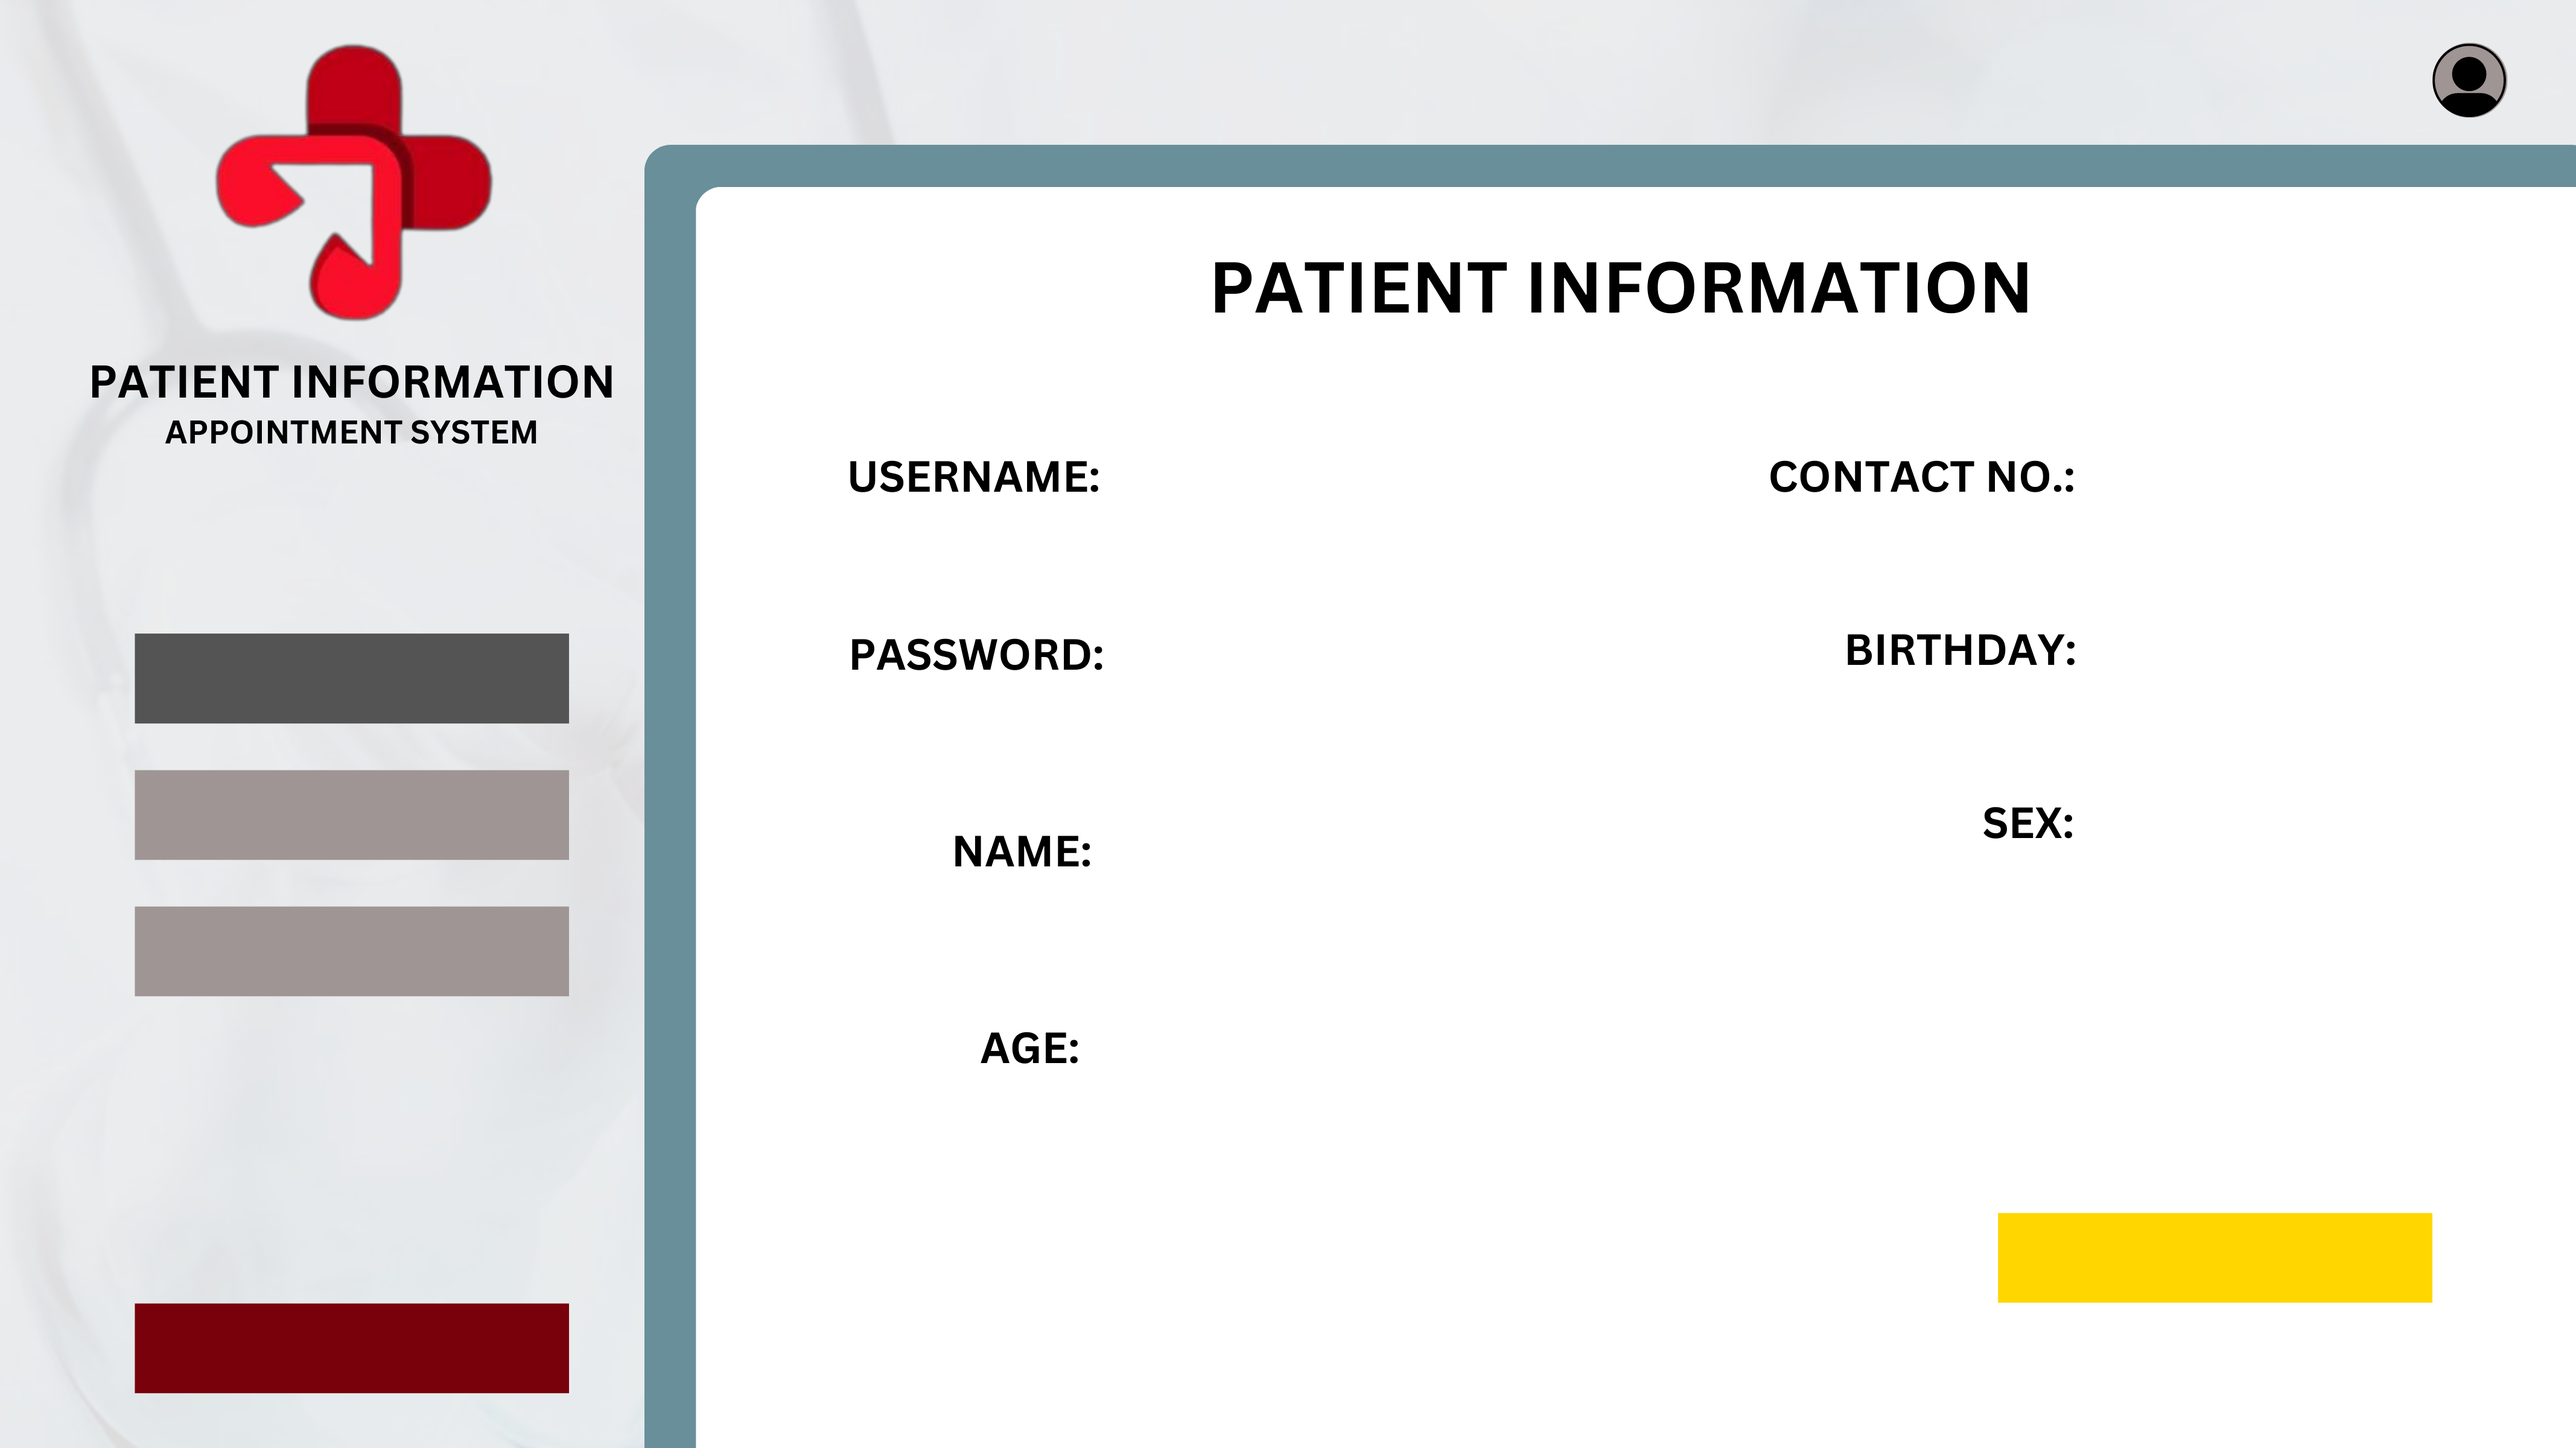
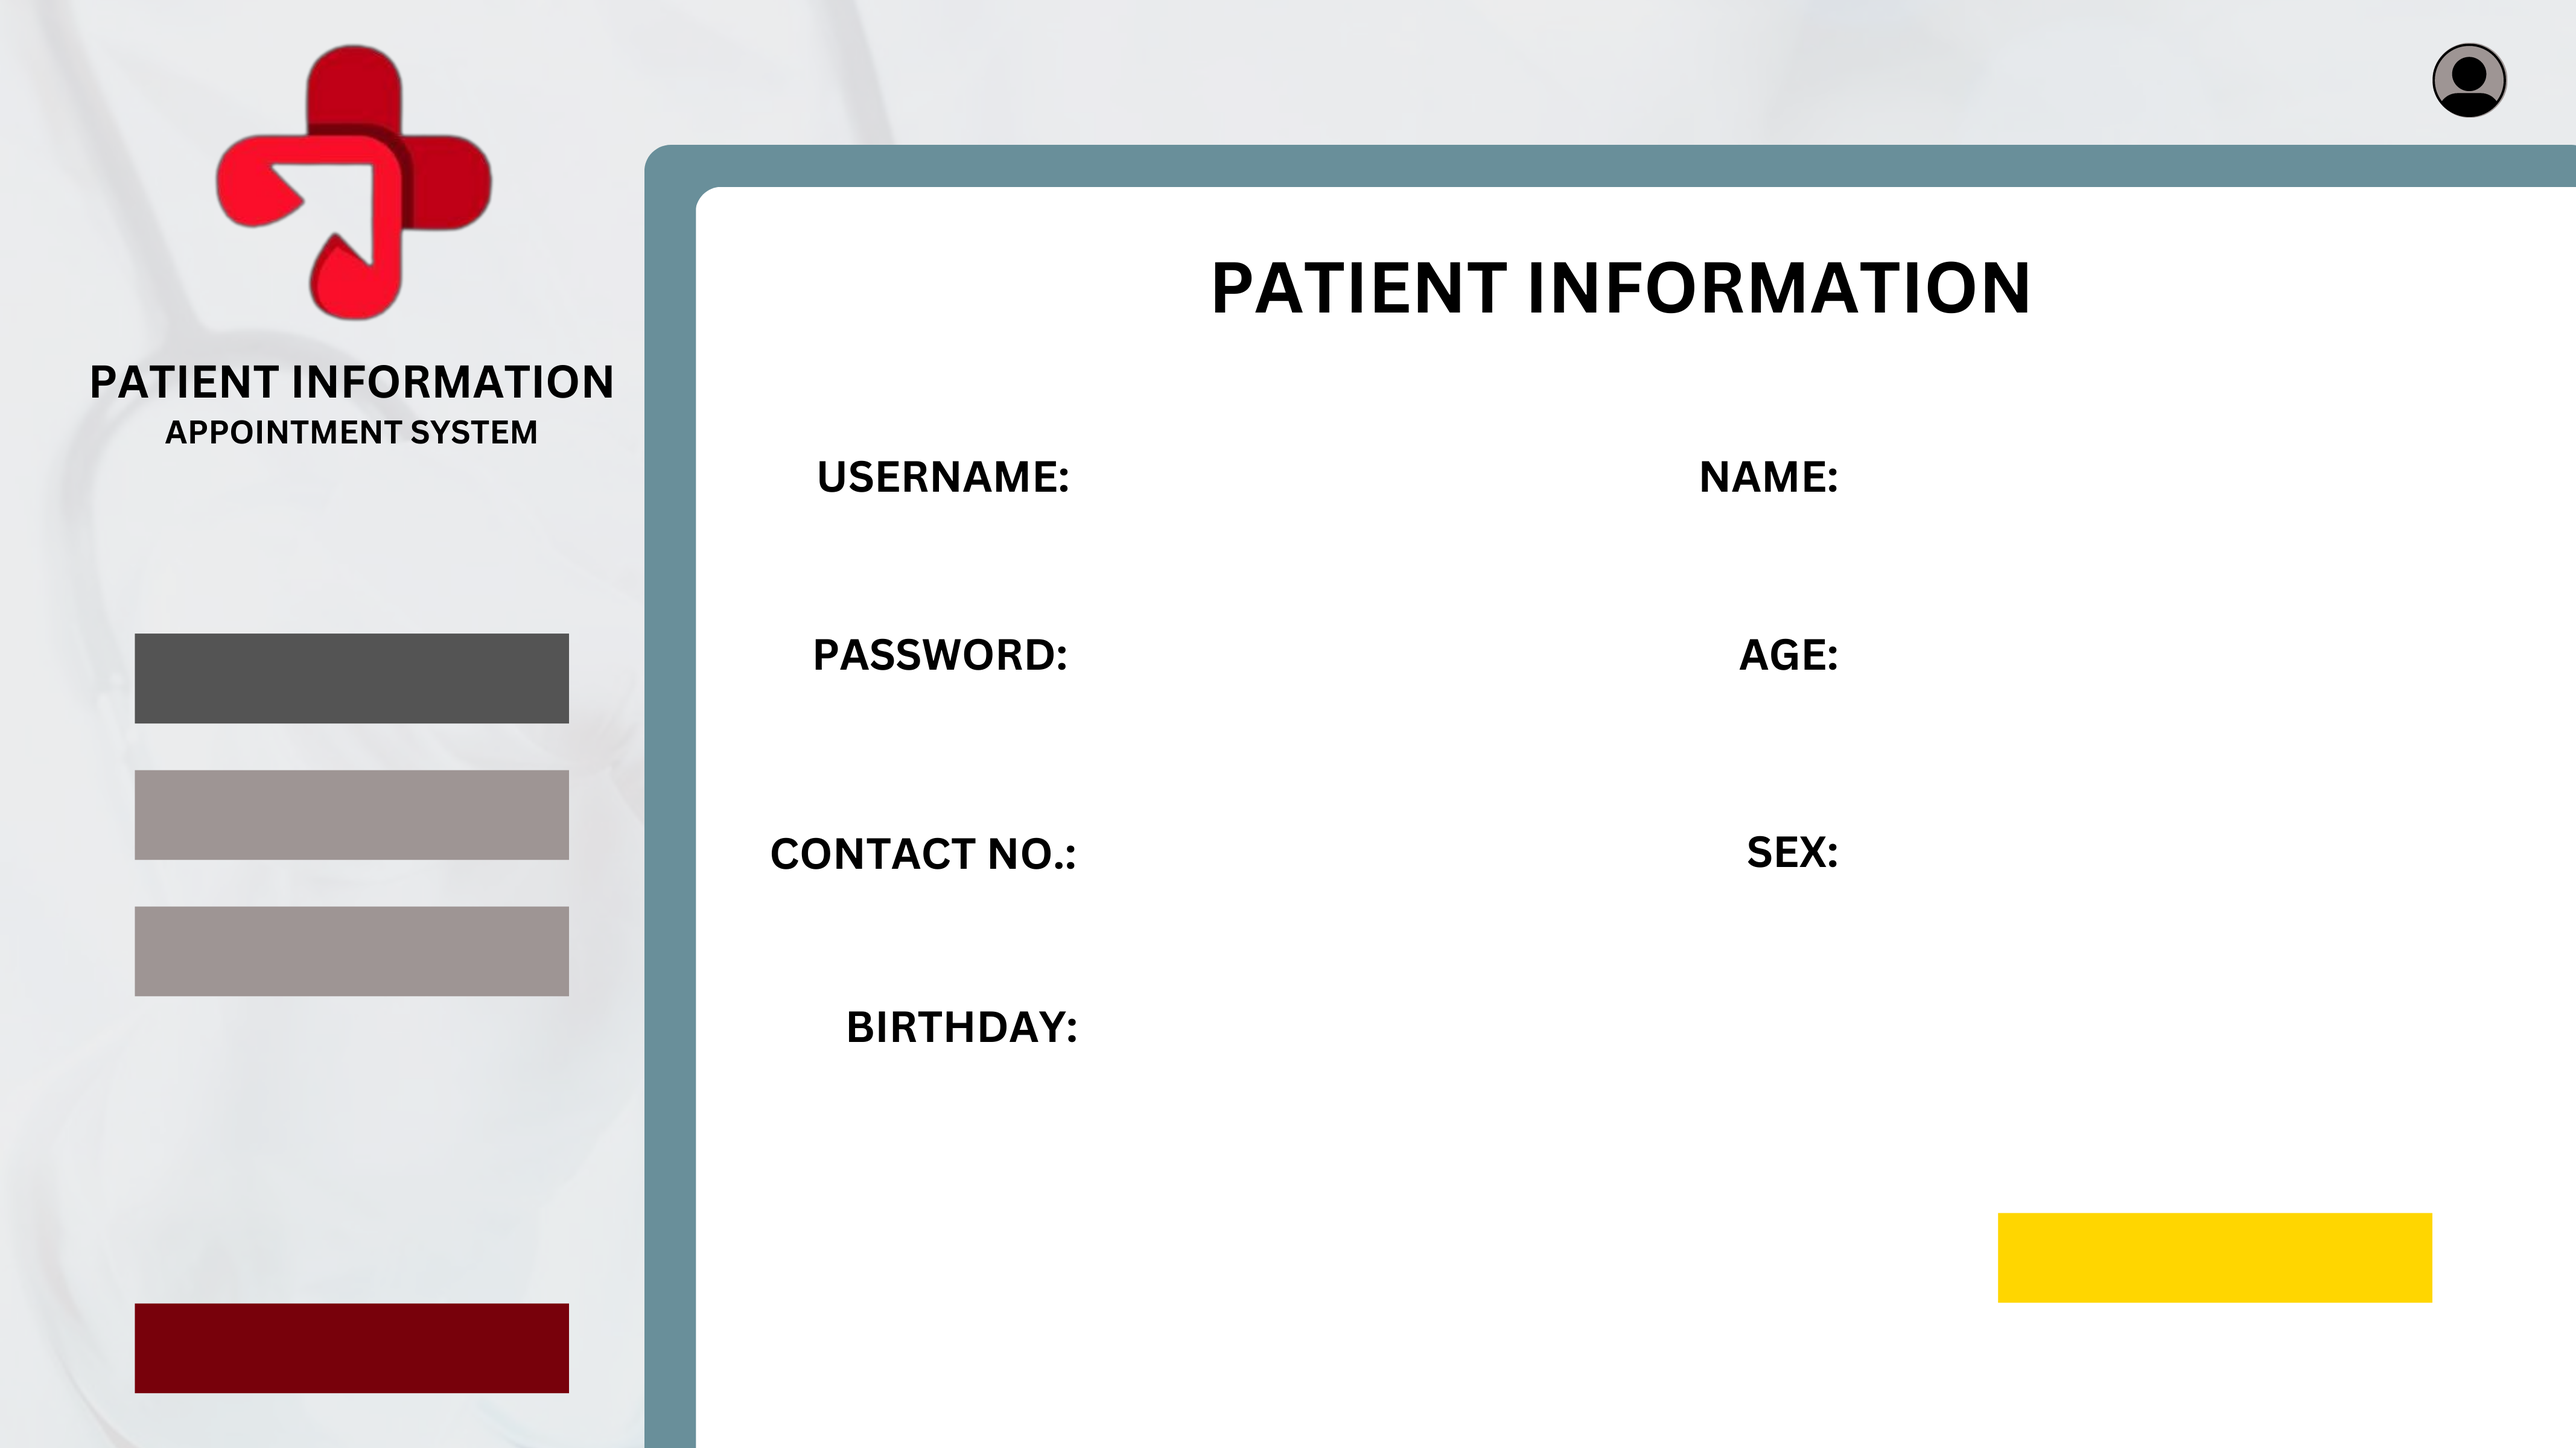
UI ni Jeanne

diff --git a/Java Version/UIPatientInformation.java b/Java Version/UIPatientInformation.java
@@ -31,7 +31,7 @@ public class UIPatientInformation extends JFrame implements ActionListener {
         button.setText("Patient Information");
         button.setFont(new Font("Dialog", Font.BOLD, 18));
         button.setForeground(Color.WHITE);
-        button.setBackground(Color.BLUE);
+        button.setBackground(new Color(0x698f9a));
         button.setOpaque(true);
         button.setFocusable(false);
         button.addActionListener(this);
@@ -67,12 +67,100 @@ public class UIPatientInformation extends JFrame implements ActionListener {
         button3.addActionListener(this);
         button3.setBounds(60, 655, 250, 50);
 
+        // Text Fields
         JTextField username = new JTextField();
         username.setBounds(1035, 23, 250, 35);
         username.setFont(new Font("Dialog", Font.PLAIN, 18));
         username.setForeground(Color.BLACK);
         username.setBackground(new Color(0xe8eaec));
         username.setBorder(BorderFactory.createEmptyBorder());
+
+        JButton edit = new JButton();
+        edit.setText("Edit");
+        edit.setFont(new Font("Dialog", Font.BOLD, 18));
+        edit.setForeground(Color.BLACK);
+        edit.setBackground(new Color(0xFFD600));
+        edit.setOpaque(true);
+        edit.setFocusable(false);
+        edit.addActionListener(this);
+        edit.setBounds(1060, 607, 250, 50);
+        edit.setBorder(BorderFactory.createEmptyBorder());
+
+        JTextField user = new JTextField();
+        user.setBounds(580, 223, 250, 35);
+        user.setFont(new Font("Dialog", Font.PLAIN, 18));
+        user.setForeground(Color.BLACK);
+        user.setBackground(Color.WHITE);
+
+        JTextField pass = new JTextField();
+        pass.setBounds(580, 313, 250, 35);
+        pass.setFont(new Font("Dialog", Font.PLAIN, 18));
+        pass.setForeground(Color.BLACK);
+        pass.setBackground(Color.WHITE);
+
+        JTextField name = new JTextField();
+        name.setBounds(985, 223, 250, 35);
+        name.setFont(new Font("Dialog", Font.PLAIN, 18));
+        name.setForeground(Color.BLACK);
+        name.setBackground(Color.WHITE);
+
+        String[] ages = { "1", "2", "3", "4", "5", "6", "7", "8", "9", "10", "11", "12", "13", "14", "15", "16", "17",
+                "18", "19", "20", "22", "23", "24", "25", "26", "27", "28", "29", "30", "31", "32", "33", "34", "35",
+                "36", "37", "38", "39", "40", "42", "43", "44", "45", "46", "47", "48", "49", "50", "52", "53", "54",
+                "55", "56", "57", "58", "59", "60", "62", "63", "64", "65", "66", "67", "68", "69", "70", "72", "73",
+                "74", "75", "76", "77", "78", "79", "80", "82", "83", "84", "85", "86", "87", "88", "89", "90", "92",
+                "93", "94", "95", "96", "97", "98", "99", "100" };
+        JComboBox<String> age = new JComboBox<>(ages);
+        age.setBounds(985, 313, 250, 35);
+        age.setFont(new Font("Dialog", Font.PLAIN, 18));
+        age.setForeground(Color.BLACK);
+        age.setBackground(Color.WHITE);
+
+        JTextField num = new JTextField();
+        num.setBounds(580, 410, 250, 35);
+        num.setFont(new Font("Dialog", Font.PLAIN, 18));
+        num.setForeground(Color.BLACK);
+        num.setBackground(Color.WHITE);
+
+        String[] month = { "January", "February", "March", "April", "May", "June", "July", "August", "September",
+                "October", "November", "December" };
+        String[] days = { "1", "2", "3", "4", "5", "6", "7", "8", "9", "10", "11", "12", "13", "14", "15", "16", "17",
+                "18", "19", "20", "22", "23", "24", "25", "26", "27", "28", "29", "30", "31" };
+        String[] years = { "1920", "1921", "1922", "1923", "1924", "1925", "1926", "1927", "1928", "1929", "1930",
+                "1931", "1932", "1933", "1934", "1935", "1936", "1937", "1938", "1939", "1940", "1941", "1942", "1943",
+                "1944", "1945", "1946", "1947", "1948", "1949", "1950", "1951", "1952", "1953", "1954", "1955", "1956",
+                "1957", "1958", "1959", "1960", "1961", "1962", "1963", "1964", "1965", "1966", "1967", "1968", "1969",
+                "1970", "1971", "1972", "1973", "1974", "1975", "1976", "1977", "1978", "1979", "1980", "1981", "1982",
+                "1983", "1984", "1985", "1986", "1987", "1988", "1989", "1990", "1991", "1992", "1993", "1994", "1995",
+                "1996", "1997", "1998", "1999", "2000", "2001", "2002", "2003", "2004", "2005", "2006", "2007", "2008",
+                "2009", "2010", "2011", "2012", "2013", "2014", "2015", "2016", "2017", "2018", "2019", "2020", "2021",
+                "2022", "2023", "less than 1 year old" };
+
+        JComboBox<String> bday = new JComboBox<>(month);
+        bday.setBounds(580, 497, 150, 35);
+        bday.setFont(new Font("Dialog", Font.PLAIN, 18));
+        bday.setForeground(Color.BLACK);
+        bday.setBackground(Color.WHITE);
+
+        JComboBox<String> bday1 = new JComboBox<>(days);
+        bday1.setBounds(740, 497, 150, 35);
+        bday1.setFont(new Font("Dialog", Font.PLAIN, 18));
+        bday1.setForeground(Color.BLACK);
+        bday1.setBackground(Color.WHITE);
+
+        JComboBox<String> bday2 = new JComboBox<>(years);
+        bday2.setBounds(900, 497, 150, 35);
+        bday2.setFont(new Font("Dialog", Font.PLAIN, 18));
+        bday2.setForeground(Color.BLACK);
+        bday2.setBackground(Color.WHITE);
+        bday2.setSelectedIndex(103);
+
+        String[] sexlist = { "Male", "Female", "I prefer not to say" };
+        JComboBox<String> sex = new JComboBox<>(sexlist);
+        sex.setBounds(985, 410, 250, 35);
+        sex.setFont(new Font("Dialog", Font.PLAIN, 18));
+        sex.setForeground(Color.BLACK);
+        sex.setBackground(Color.WHITE);
 
         // Style the Frame
         this.setIconImage(icon.getImage());
@@ -93,7 +181,16 @@ public class UIPatientInformation extends JFrame implements ActionListener {
         bgImageLayer.add(button2, JLayeredPane.PALETTE_LAYER);
         bgImageLayer.add(button3, JLayeredPane.PALETTE_LAYER);
         bgImageLayer.add(username, JLayeredPane.PALETTE_LAYER);
-
+        bgImageLayer.add(edit, JLayeredPane.PALETTE_LAYER);
+        bgImageLayer.add(user, JLayeredPane.PALETTE_LAYER);
+        bgImageLayer.add(pass, JLayeredPane.PALETTE_LAYER);
+        bgImageLayer.add(name, JLayeredPane.PALETTE_LAYER);
+        bgImageLayer.add(age, JLayeredPane.PALETTE_LAYER);
+        bgImageLayer.add(num, JLayeredPane.PALETTE_LAYER);
+        bgImageLayer.add(bday, JLayeredPane.PALETTE_LAYER);
+        bgImageLayer.add(sex, JLayeredPane.PALETTE_LAYER);
+        bgImageLayer.add(bday1, JLayeredPane.PALETTE_LAYER);
+        bgImageLayer.add(bday2, JLayeredPane.PALETTE_LAYER);
     }
 
     private static void centerFrameOnScreen(JFrame frame) {

diff --git a/Java Version/UICreate.java b/Java Version/UICreate.java
@@ -108,12 +108,12 @@ public class UICreate extends JFrame implements ActionListener {
         nameLabel.setForeground(Color.GRAY);
         nameLabel.setBounds(750, 300, 400, 20);
 
-        String[] ages = { "8", "9", "10", "11", "12", "13", "14", "15", "16", "17", "18", "19", "20", "22", "23", "24",
-                "25", "26", "27", "28", "29", "30", "32", "33", "34", "35", "36", "37", "38", "39", "40", "42", "43",
-                "44", "45", "46", "47", "48", "49", "50", "52", "53", "54", "55", "56", "57", "58", "59", "60", "62",
-                "63", "64", "65", "66", "67", "68", "69", "70", "72", "73", "74", "75", "76", "77", "78", "79", "80",
-                "82", "83", "84", "85", "86", "87", "88", "89", "90", "92", "93", "94", "95", "96", "97", "98", "99",
-                "100" };
+        String[] ages = { "1", "2", "3", "4", "5", "6", "7", "8", "9", "10", "11", "12", "13", "14", "15", "16", "17",
+                "18", "19", "20", "22", "23", "24", "25", "26", "27", "28", "29", "30", "32", "33", "34", "35", "36",
+                "37", "38", "39", "40", "42", "43", "44", "45", "46", "47", "48", "49", "50", "52", "53", "54", "55",
+                "56", "57", "58", "59", "60", "62", "63", "64", "65", "66", "67", "68", "69", "70", "72", "73", "74",
+                "75", "76", "77", "78", "79", "80", "82", "83", "84", "85", "86", "87", "88", "89", "90", "92", "93",
+                "94", "95", "96", "97", "98", "99", "100" };
         JComboBox<String> age = new JComboBox<>(ages);
         age.setBounds(750, 380, 400, 36);
         age.setFont(new Font("Dialog", Font.PLAIN, 18));
